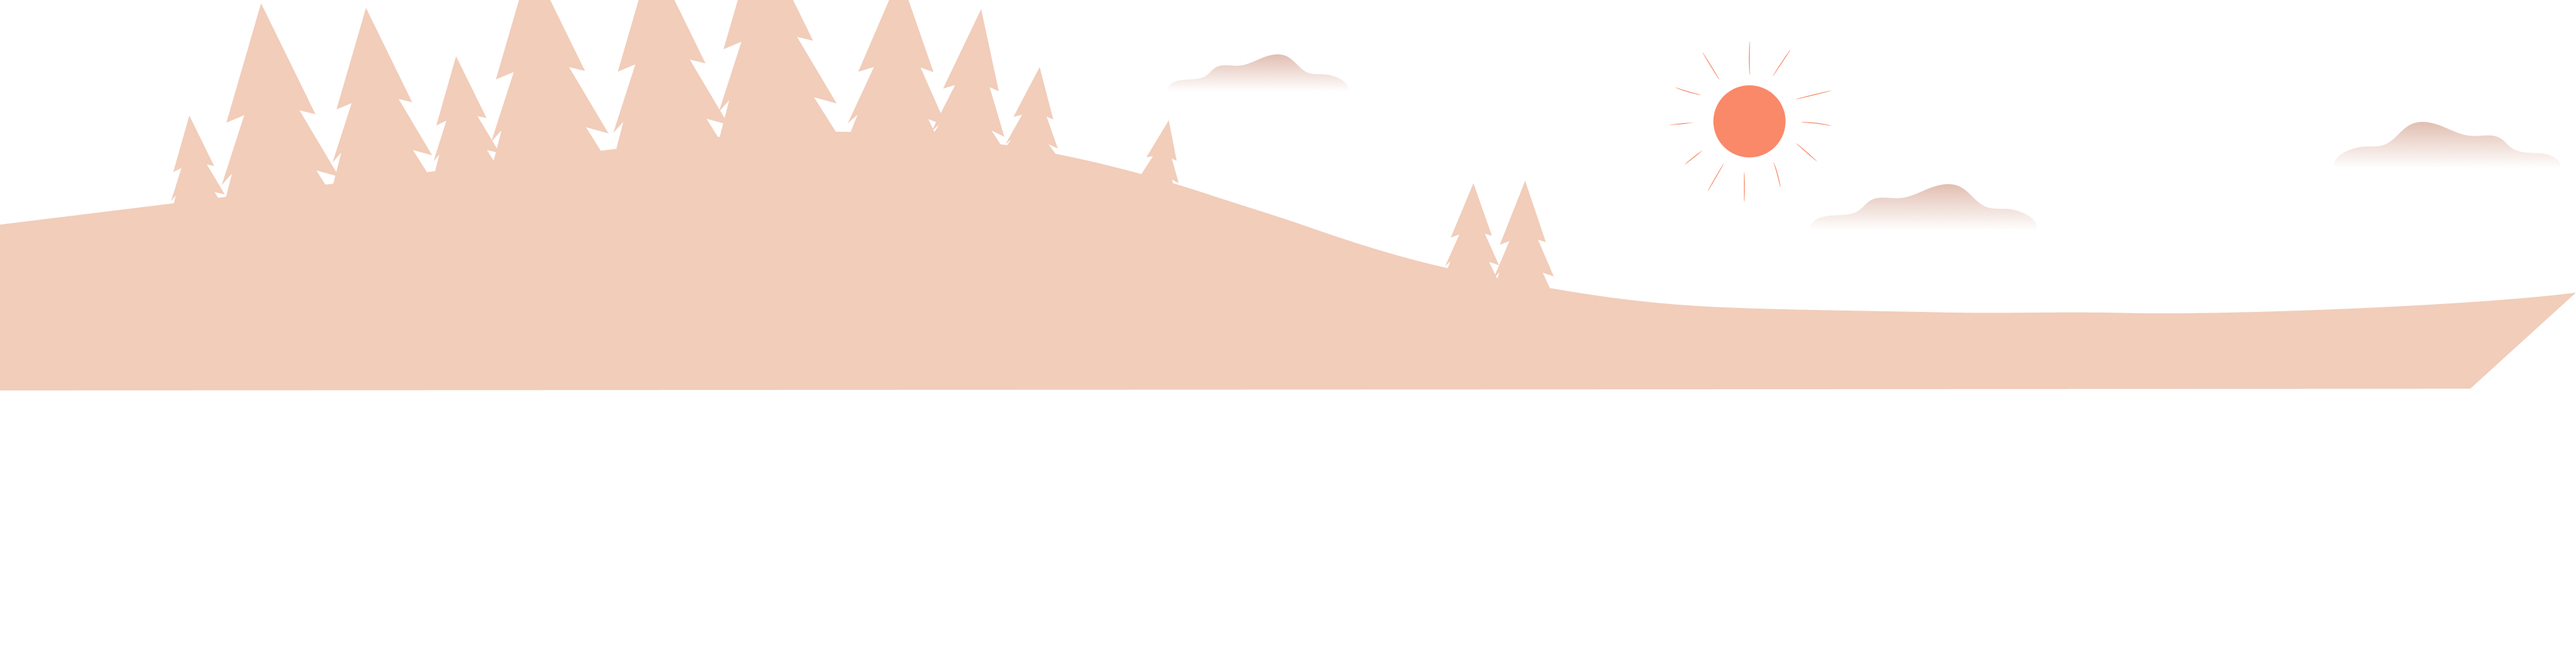
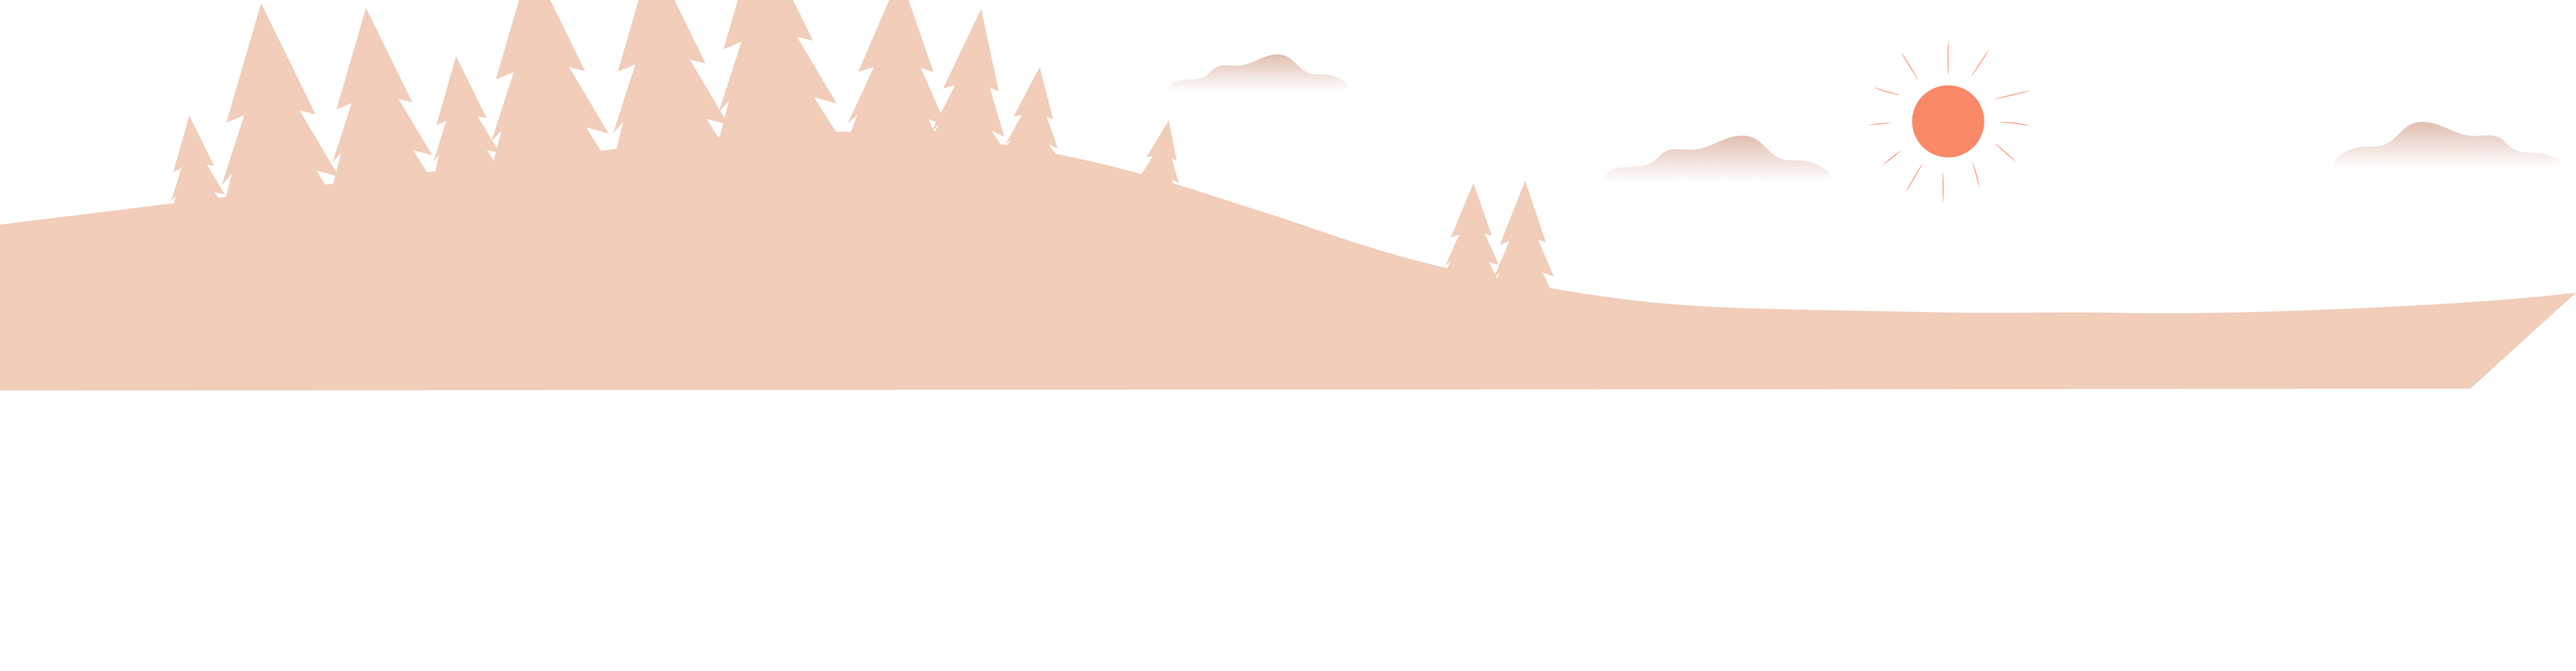
updated parallax on scene 8/9 (Nature)

Changed region(s): [[0.6212, 0.125, 0.7765, 0.25], [0.7144, 0.2812, 0.7765, 0.3438]]

diff --git a/components/Chapter8.vue b/components/Chapter8.vue
@@ -25,7 +25,7 @@
           ref="parallax-ft"
           alt="front-parallax"
           src="@/assets/img/chapter-8/front-parallax.png"
-          :style="{ left: '183%' }"
+          :style="{ left: '222%' }"
         />
         <img
           @load="handleLoad"
@@ -34,7 +34,7 @@
           ref="parallax-middle"
           alt="middle-parallax"
           src="@/assets/img/chapter-8/middle-parallax.png"
-          :style="{ left: '120%' }"
+          :style="{ left: '203%' }"
         />
       </div>
       <div class="b--ss-a__content">
@@ -43,7 +43,7 @@
           class="b--chapter8-a__content"
           :class="'b--chapter8-a__content--' + `${this.lang}`"
           ref="boxContent"
-          :style="{ left: '109%' }"
+          :style="{ left: '180%' }"
         >
           <v-card-f
             :title="chapter.intro_title"
@@ -55,7 +55,7 @@
         <div
           class="b--chapter8-a__content b--chapter8-a__content--second"
           ref="infoChapter"
-          :style="{ left: '126%' }"
+          :style="{ left: '198%' }"
         >
           <v-info-chapter :info="chapter" />
         </div>
@@ -63,7 +63,7 @@
         <div
           class="b--chapter8-a__artwork"
           ref="plant"
-          :style="{ left: '143%' }"
+          :style="{ left: '223%' }"
         >
           <div
             class="b--motion-e"
@@ -74,7 +74,7 @@
         <div
           class="b--chapter8-a__artwork b--chapter8-a__artwork--second"
           ref="fishes"
-          :style="{ left: '152%' }"
+          :style="{ left: '229%' }"
         >
           <div
             class="b--motion-r"
@@ -132,12 +132,12 @@ export default {
     AsambleParallaxObjs() {
       var motion = [
         { obj: this.$refs['parallax-bg'], intensity: 1 },
-        { obj: this.$refs['parallax-ft'], intensity: 40 },
-        { obj: this.$refs['parallax-middle'], intensity: 21 },
-        { obj: this.$refs['boxContent'], intensity: 21 },
-        { obj: this.$refs['infoChapter'], intensity: 21 },
-        { obj: this.$refs['plant'], intensity: 21 },
-        { obj: this.$refs['fishes'], intensity: 21 },
+        { obj: this.$refs['parallax-ft'], intensity: 45 },
+        { obj: this.$refs['parallax-middle'], intensity: 35 },
+        { obj: this.$refs['boxContent'], intensity: 35 },
+        { obj: this.$refs['infoChapter'], intensity: 35 },
+        { obj: this.$refs['plant'], intensity: 35 },
+        { obj: this.$refs['fishes'], intensity: 35 },
       ]
       motion.forEach((item) => {
         this.parallaxMove({
